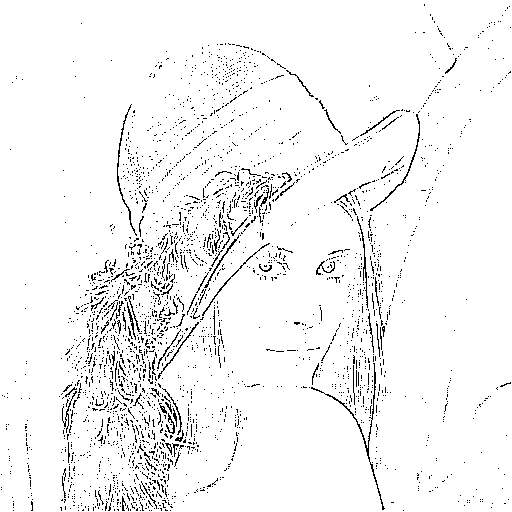
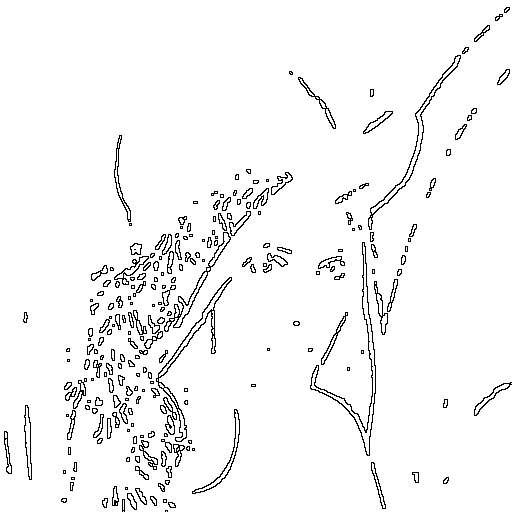
finish zero crossing

diff --git a/hw10/main.py b/hw10/main.py
@@ -20,17 +20,23 @@ def convolve2d(img, kernel):
             patch = img[i-r:i+r+1, j-r:j+r+1]
             pixel = np.sum(np.multiply(patch.ravel(), kernel.ravel()))
             new_img[i][j] = pixel
-    new_img = np.clip(new_img, 0, 255)
-    return new_img[r:-r, r:-r].astype(np.uint8)
-
-def binarize(img, threshold=128):
-    """ Binarize image given threshold """
-    return np.where(img < threshold, 255, 0).astype(np.uint8)
-
-def laplacian_mask(img, threshold):
-    pass
+    return new_img[r:-r, r:-r]
 
 # 
+
+def laplacian_zero_crossing(img, kernel, threshold):
+    h, w = img.shape
+    L = convolve2d(img, kernel) # compute laplacian
+    L = np.where(L <= -threshold, -1, L)
+    L = np.where(L >= threshold, 1, L)
+    L = np.pad(L, 1, mode='constant').astype(np.float64)
+    edge = np.ones((h+2, w+2)) * 255
+    for i in range(1, h+1):
+        for j in range(1, w+1):
+            patch = L[i-1:i+2, j-1:j+2]
+            if patch[1][1] == 1 and np.any(patch.ravel() == -1):
+                edge[i][j] = 0
+    return edge[1:-1, 1:-1].astype(np.uint8)
 
 def laplacian_1(img, threshold):
     kernel = np.array([
@@ -38,9 +44,7 @@ def laplacian_1(img, threshold):
         [1, -4, 1],
         [0, 1, 0]
     ])
-    L = convolve2d(img, kernel)
-    edge = binarize(L, threshold)
-    return edge
+    return laplacian_zero_crossing(img, kernel, threshold)
 
 def laplacian_2(img, threshold):
     kernel = np.array([
@@ -48,9 +52,7 @@ def laplacian_2(img, threshold):
         [1, -8, 1],
         [1, 1, 1]
     ]) / 3
-    L = convolve2d(img, kernel)
-    edge = binarize(L, threshold)
-    return edge
+    return laplacian_zero_crossing(img, kernel, threshold)
 
 def laplacian_3(img, threshold):
     kernel = np.array([
@@ -58,13 +60,44 @@ def laplacian_3(img, threshold):
         [-1, -4, -1],
         [2, -1, 2]
     ]) / 3
-    L = convolve2d(img, kernel)
-    edge = binarize(L, threshold)
-    return edge
+    return laplacian_zero_crossing(img, kernel, threshold)
+
+def LoG(img, threshold):
+    kernel = np.array([
+        [0, 0, 0, -1, -1, -2, -1, -1, 0, 0, 0],
+        [0, 0, -2, -4, -8, -9, -8, -4, -2, 0, 0],
+        [0, -2, -7, -15, -22, -23, -22, -15, -7, -2, 0],
+        [-1, -4, -15, -24, -14, -1, -14, -24, -15, -4, -1],
+        [-1, -8, -22, -14, 52, 103, 52, -14, -22, -8, -1],
+        [-2, -9, -23, -1, 103, 178, 103, -1, -23, -9, -2],
+        [-1, -8, -22, -14, 52, 103, 52, -14, -22, -8, -1],
+        [-1, -4, -15, -24, -14, -1, -14, -24, -15, -4, -1],
+        [0, -2, -7, -15, -22, -23, -22, -15, -7, -2, 0],
+        [0, 0, -2, -4, -8, -9, -8, -4, -2, 0, 0],
+        [0, 0, 0, -1, -1, -2, -1, -1, 0, 0, 0]
+    ])
+    return laplacian_zero_crossing(img, kernel, threshold)
+
+def DoG(img, threshold):
+    kernel = np.array([
+        [-1, -3, -4, -6, -7, -8, -7, -6, -4, -3, -1],
+        [-3, -5, -8, -11, -13, -13, -13, -11, -8, -5, -3],
+        [-4, -8, -12, -16, -17, -17, -17, -16, -12, -8, -4],
+        [-6, -11, -16, -16, 0, 15, 0, -16, -16, -11, -6],
+        [-7, -13, -17, 0, 85, 160, 85, 0, -17, -13, -7],
+        [-8, -13, -17, 15, 160, 283, 160, 15, -17, -13, -8],
+        [-7, -13, -17, 0, 85, 160, 85, 0, -17, -13, -7],
+        [-6, -11, -16, -16, 0, 15, 0, -16, -16, -11, -6],
+        [-4, -8, -12, -16, 0, 15, 0, -16, -16, -11, -6],
+        [-3, -5, -8, -11, -13, -13, -13, -11, -8, -5, -3],
+        [-1, -3, -4, -6, -7, -8, -7, -6, -4, -3, -1]
+    ])
+    return laplacian_zero_crossing(img, kernel, threshold)
+    
 
 def main():
     img = read_image('../data/lena.bmp')
-    img = laplacian_3(img, 20)
+    img = DoG(img, 1)
     save_image(img, 'test.png')
 
 if __name__ == '__main__':
